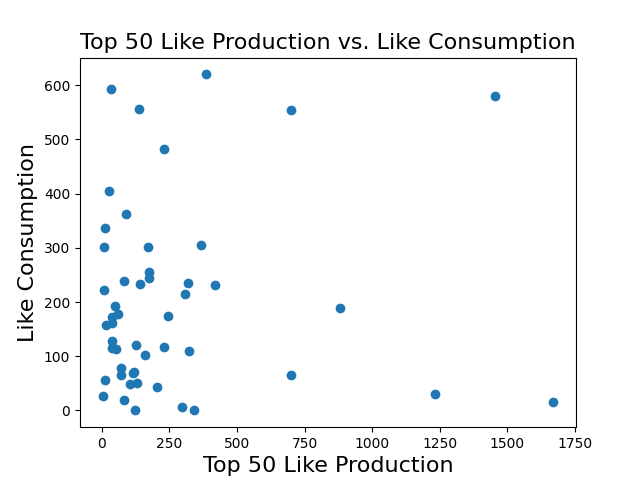
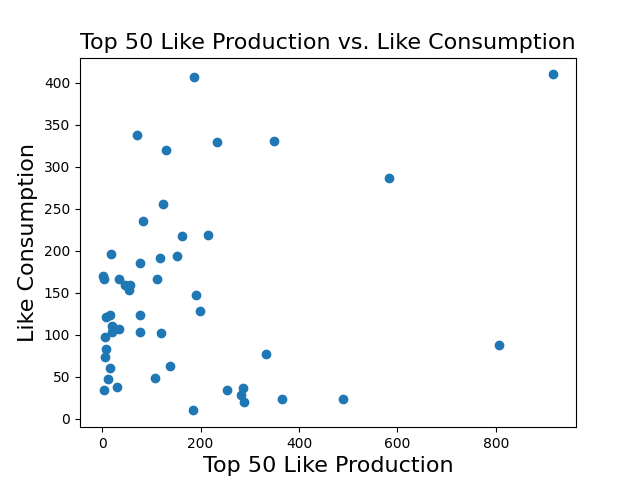
update

diff --git a/src/process/core_detection/core_detector.py b/src/process/core_detection/core_detector.py
@@ -481,12 +481,22 @@ class CoreDetector():
         log.info(f"Similarity Test with penalty {penalty}")
 
         log.info("By Rank Value")
-        length = len(intersection_50_likes_con)
+        # log.info("Ranking using likes")
+        # length = len(intersection_50_likes_con)
+        # rank_value = []
+        # rank_user =[]
+        # for i in range(0, length):
+        #     rank_user.append(intersection_50_likes_con[i])
+        #     rank_value.append(i + intersection_50_likes_prod.index(intersection_50_likes_con[i]))
+        # min_value = min(rank_value)
+        # curr_user_id = rank_user[rank_value.index(min_value)]
+        log.info("Ranking using retweets")
+        length = len(intersection_50_retweets_con)
         rank_value = []
         rank_user =[]
         for i in range(0, length):
-            rank_user.append(intersection_50_likes_con[i])
-            rank_value.append(i + intersection_50_likes_prod.index(intersection_50_likes_con[i]))
+            rank_user.append(intersection_50_retweets_con[i])
+            rank_value.append(i + intersection_50_retweets_prod.index(intersection_50_retweets_con[i]))
         min_value = min(rank_value)
         curr_user_id = rank_user[rank_value.index(min_value)]
         # # # TODO: PRODUCTION

diff --git a/src/process/download/follower_downloader.py b/src/process/download/follower_downloader.py
@@ -24,11 +24,16 @@ class TwitterFollowerDownloader():
     def download_followers_ids_by_id_list(self, ids: List[str], num_followers=None) -> None:
         """
         """
+        num_ids = len(ids)
+        count = 0
+
         for user_id in ids:
             if not self.user_follower_setter._contains_user(user_id):
                 self.download_followers_ids_by_id(user_id)
             else:
                 log.info(f"Skipped user {user_id} because followers are already downloaded")
+            count += 1
+            log.log_progress(log, count, num_ids)
 
     def download_followers_ids_by_screen_name(self, screen_name: str, num_followers=None) -> None:
         """
